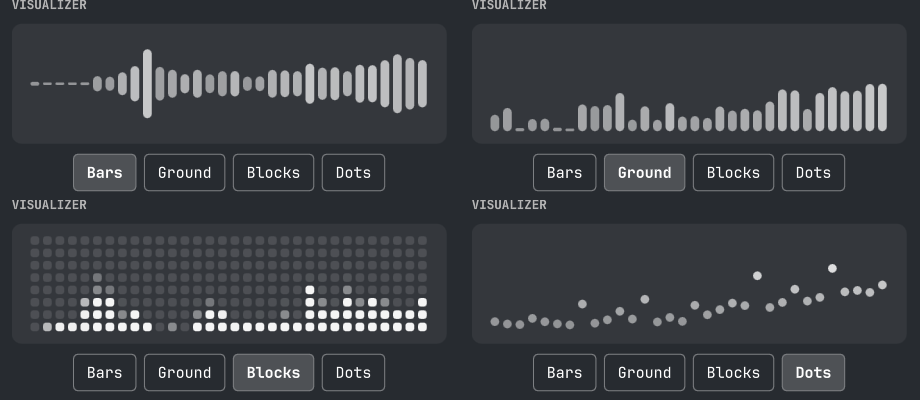
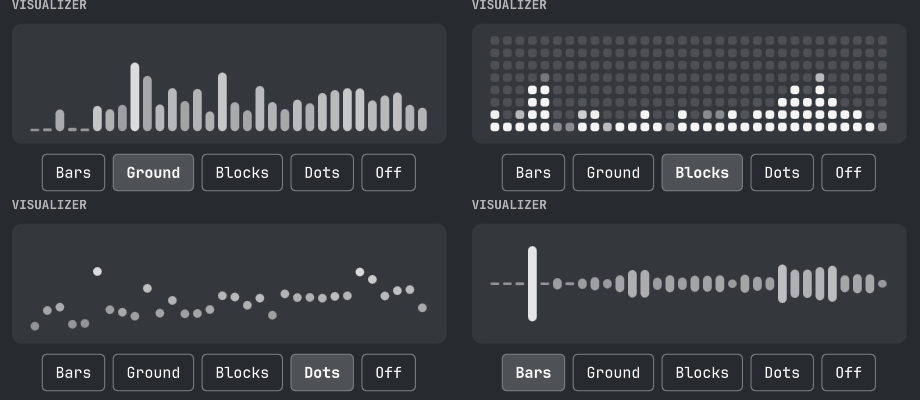
Add Off style and power-saver pause; drop the style override

diff --git a/BarWidget.qml b/BarWidget.qml
@@ -33,15 +33,25 @@ Panel {
     { value: "bars", label: "Bars" },
     { value: "grounded", label: "Ground" },
     { value: "blocks", label: "Blocks" },
-    { value: "dots", label: "Dots" }
+    { value: "dots", label: "Dots" },
+    { value: "none", label: "Off" }
   ]
 
-  // The picker writes through `omarchy bar set`, which round-trips via
-  // shell.json. The override paints the new choice straight away instead of
-  // waiting for that to land, then clears itself once settings agree.
-  property string vizStyleOverride: ""
-  readonly property string vizStyle: vizStyleOverride !== "" ? vizStyleOverride : setting("style", "bars")
-  onSettingsChanged: if (vizStyleOverride !== "" && setting("style", "bars") === vizStyleOverride) vizStyleOverride = ""
+  // The picker just writes the setting; the bar patches it back into every
+  // surface within a frame or two. An earlier version also kept a local
+  // override to paint the choice instantly, but a stale override could
+  // shadow shell.json indefinitely — not worth the few hundred ms.
+  readonly property string vizStyle: settings && settings.style ? String(settings.style) : "bars"
+
+  readonly property bool pauseOnPowerSaver: setting("pauseOnPowerSaver", true)
+  property bool powerSaverActive: false
+
+  // "Off" is a real off switch, not a blank style: it stops cava outright.
+  // Power-saver does the same without touching the saved style, so the
+  // visualizer comes back by itself when the profile changes.
+  readonly property bool vizStyleOff: vizStyle === "none"
+  readonly property bool powerSaverSuppressed: pauseOnPowerSaver && powerSaverActive
+  readonly property bool vizSuppressed: vizStyleOff || powerSaverSuppressed
 
   readonly property bool barVertical: bar ? bar.vertical : false
   readonly property int vizExtent: Math.max(2, Math.round((bar ? bar.barSize : 26) * vizHeightPercent / 100))
@@ -55,23 +65,30 @@ Panel {
 
   // Silence falls back to the plain speaker icon, and so does a cava that
   // never produced a frame — better a working volume widget than a gap.
-  readonly property bool showSpectrum: (!vizAutoHide || vizLive) && !barCava.failed
+  readonly property bool showSpectrum: !vizSuppressed && (!vizAutoHide || vizLive) && !barCava.failed
 
   // The open-panel dot tracks the icon rather than the full spectrum width.
   readonly property real openPanelIndicatorWidth: Math.max(10, Math.round(button.implicitWidth * 0.55))
   readonly property real openPanelIndicatorHeight: Math.max(10, Math.round(button.implicitHeight * 0.55))
 
-  // Broadcast paints the new choice on every monitor at once; the write to
-  // shell.json is what makes it survive a restart. The override exists only
-  // to cover the few hundred ms before that write loops back as settings.
   function setVizStyle(value) {
     if (!value || value === root.vizStyle) return
-    CavaHub.publishStyle(value)
     if (root.bar) root.bar.run("omarchy bar set " + root.moduleName + " style "
                                + root.bar.shellQuote(value))
   }
 
-  function vizOnStyle(style) { root.vizStyleOverride = style }
+  function vizOnPowerSave(active) { root.powerSaverActive = active }
+
+  function updatePowerProfile(text) {
+    var lines = String(text).split("\n")
+    for (var i = 0; i < lines.length; i++) {
+      var parts = lines[i].split("\t")
+      if (parts.length >= 2 && parts[1].trim() === "1") {
+        CavaHub.publishPowerSave(parts[0].trim() === "power-saver")
+        return
+      }
+    }
+  }
 
   function vizOnFrame(levels, peak) {
     root.vizLevels = levels
@@ -84,7 +101,7 @@ Panel {
   function vizTryClaim() { root.vizOwner = CavaHub.claim(root) }
 
   Component.onCompleted: {
-    root.vizHubId = CavaHub.subscribe(root.vizOnFrame, root.vizOnStyle)
+    root.vizHubId = CavaHub.subscribe(root.vizOnFrame, root.vizOnPowerSave)
     root.vizLevels = CavaHub.lastLevels()
     root.vizTryClaim()
   }
@@ -102,7 +119,7 @@ Panel {
     noiseReduction: root.vizNoise
     channels: root.vizChannels
     source: root.vizSource
-    running: root.vizOwner
+    running: root.vizOwner && !root.vizSuppressed
     onFrame: function(levels, peak) { CavaHub.publish(levels, peak) }
   }
 
@@ -114,7 +131,7 @@ Panel {
     noiseReduction: root.vizNoise
     channels: root.vizChannels
     source: root.vizSource
-    running: root.opened
+    running: root.opened && !root.vizSuppressed
     onFrame: function(levels, peak) { root.vizPanelLevels = levels }
   }
 
@@ -124,6 +141,23 @@ Panel {
     repeat: true
     running: !root.vizOwner
     onTriggered: root.vizTryClaim()
+  }
+
+  Process {
+    id: powerProfileProc
+    command: ["omarchy-powerprofiles-list", "--active-state"]
+    stdout: StdioCollector {
+      waitForEnd: true
+      onStreamFinished: root.updatePowerProfile(text)
+    }
+  }
+
+  Timer {
+    interval: 60000
+    repeat: true
+    triggeredOnStart: true
+    running: root.vizOwner && root.pauseOnPowerSaver
+    onTriggered: if (!powerProfileProc.running) powerProfileProc.running = true
   }
 
   Timer {
@@ -949,7 +983,7 @@ Panel {
 
               Spectrum {
                 anchors.centerIn: parent
-                visible: !panelCava.failed
+                visible: !panelCava.failed && !root.vizSuppressed
                 levels: root.vizPanelLevels
                 bandCount: root.vizPanelBars
                 gap: root.vizPanelGap
@@ -968,8 +1002,10 @@ Panel {
 
               Text {
                 anchors.centerIn: parent
-                visible: panelCava.failed
-                text: "No audio stream"
+                visible: panelCava.failed || root.vizSuppressed
+                text: root.vizStyleOff ? "Visualizer off"
+                    : root.powerSaverSuppressed ? "Paused on power saver"
+                    : "No audio stream"
                 color: Qt.darker(root.bar.foreground, 1.4)
                 font.family: root.bar.fontFamily
                 font.pixelSize: Style.font.caption

diff --git a/CavaHub.js b/CavaHub.js
@@ -31,9 +31,9 @@ function hasOwner() {
   return _owner !== null && _owner !== undefined
 }
 
-function subscribe(onFrame, onStyle) {
+function subscribe(onFrame, onPowerSave) {
   var id = _nextId++
-  _subscribers.push({ id: id, onFrame: onFrame, onStyle: onStyle })
+  _subscribers.push({ id: id, onFrame: onFrame, onPowerSave: onPowerSave })
   return id
 }
 
@@ -52,10 +52,10 @@ function publish(levels, peak) {
   for (var i = 0; i < _subscribers.length; i++) _subscribers[i].onFrame(levels, peak)
 }
 
-// The style picker takes effect on every monitor at once, rather than each
-// surface waiting to notice the shell.json write independently.
-function publishStyle(style) {
-  for (var i = 0; i < _subscribers.length; i++) _subscribers[i].onStyle(style)
+// Only the surface that owns cava polls the power profile, so the answer has
+// to reach the others the same way frames do.
+function publishPowerSave(active) {
+  for (var i = 0; i < _subscribers.length; i++) _subscribers[i].onPowerSave(active)
 }
 
 // A surface mounted after the first frame would otherwise draw nothing until

diff --git a/README.md b/README.md
@@ -55,6 +55,10 @@ remove it yourself with `omarchy pkg remove cava`.
 - **In the panel:** the full audio panel with a larger 60fps visualizer on
   top and a style picker under it.
 - Works in vertical bars: bands stack down the bar and levels grow sideways.
+- **On the `power-saver` profile** the visualizer pauses and cava stops, then
+  comes back on its own when you leave that profile. Your chosen style is not
+  touched — the panel says `Paused on power saver` and keeps it selected. Turn
+  this off with `pauseOnPowerSaver` if you would rather it always run.
 
 ## Interaction
 
@@ -67,7 +71,11 @@ remove it yourself with `omarchy pkg remove cava`.
 ## Styles
 
 `Bars` (centered), `Ground` (rising from the floor), `Blocks` (segmented
-LED columns), `Dots` (a dot riding each band's level).
+LED columns), `Dots` (a dot riding each band's level), and `Off`.
+
+`Off` is a real off switch, not a blank style: it stops cava outright, and the
+widget falls back to the plain speaker icon. You keep a working audio widget
+at zero cost.
 
 <p align="center">
   <img src="docs/styles.png" alt="The four visualizer styles" width="620">
@@ -101,7 +109,7 @@ omarchy bar set io.github.koyphish.audio-visualizer autoHide false --json
 
 | Key                | Default  | What it does                                       |
 |--------------------|----------|----------------------------------------------------|
-| `style`            | `bars`   | `bars`, `grounded`, `blocks`, `dots`                |
+| `style`            | `bars`   | `bars`, `grounded`, `blocks`, `dots`, `none` (off)  |
 | `bars`             | `12`     | Bands in the bar widget                             |
 | `barWidth`         | `3`      | Bar thickness in px                                 |
 | `gap`              | `2`      | Gap between bars in px                              |
@@ -113,6 +121,7 @@ omarchy bar set io.github.koyphish.audio-visualizer autoHide false --json
 | `channels`         | `mono`   | `stereo` mirrors left and right                     |
 | `source`           | `auto`   | PipeWire source; `auto` follows the default output  |
 | `autoHide`         | `true`   | Fall back to the icon when audio is silent          |
+| `pauseOnPowerSaver`| `true`   | Stop cava while the power profile is `power-saver`  |
 | `hideAfterSeconds` | `3`      | How long silence must last first                    |
 
 Boolean and numeric values need `--json` when set from the command line;
@@ -149,6 +158,7 @@ executes and every file it touches.
 | `omarchy-audio-input-set-default` | Only when you click an input device | Inherited from `omarchy.audio` |
 | `omarchy-audio-sink-availability` | Every 5s while the panel is open | Read-only |
 | `omarchy-audio-output-sink` | Every 15s | Read-only |
+| `omarchy-powerprofiles-list --active-state` | Every 60s, on the surface that owns cava only | Read-only; drives the power-saver pause. Not run at all when `pauseOnPowerSaver` is off |
 
 The only file it ever writes is its **own widget entry** in
 `~/.config/omarchy/shell.json` — the `style` key, and only on an explicit
